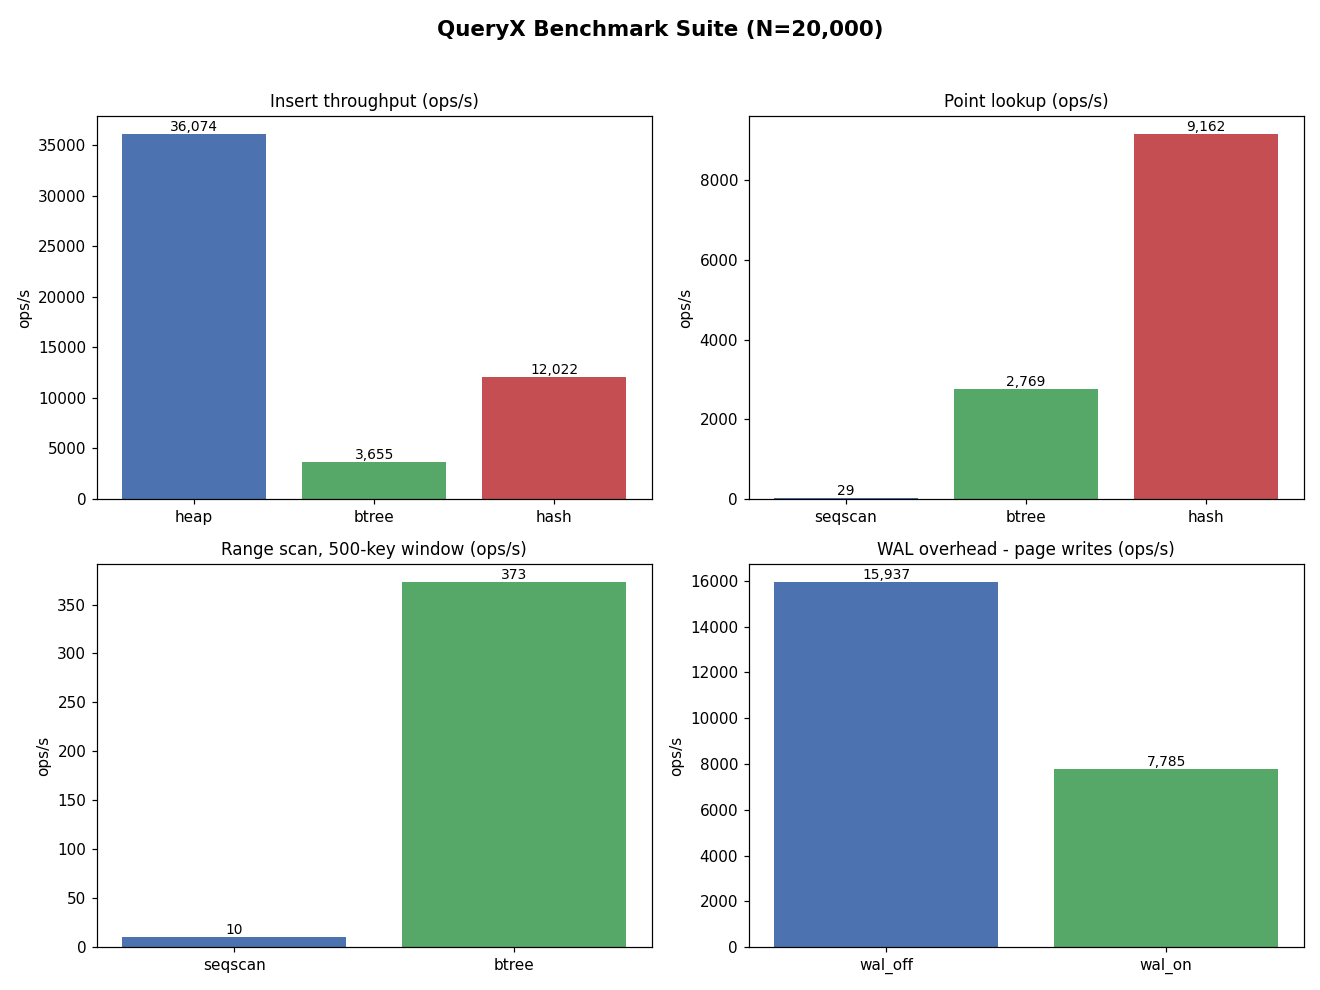
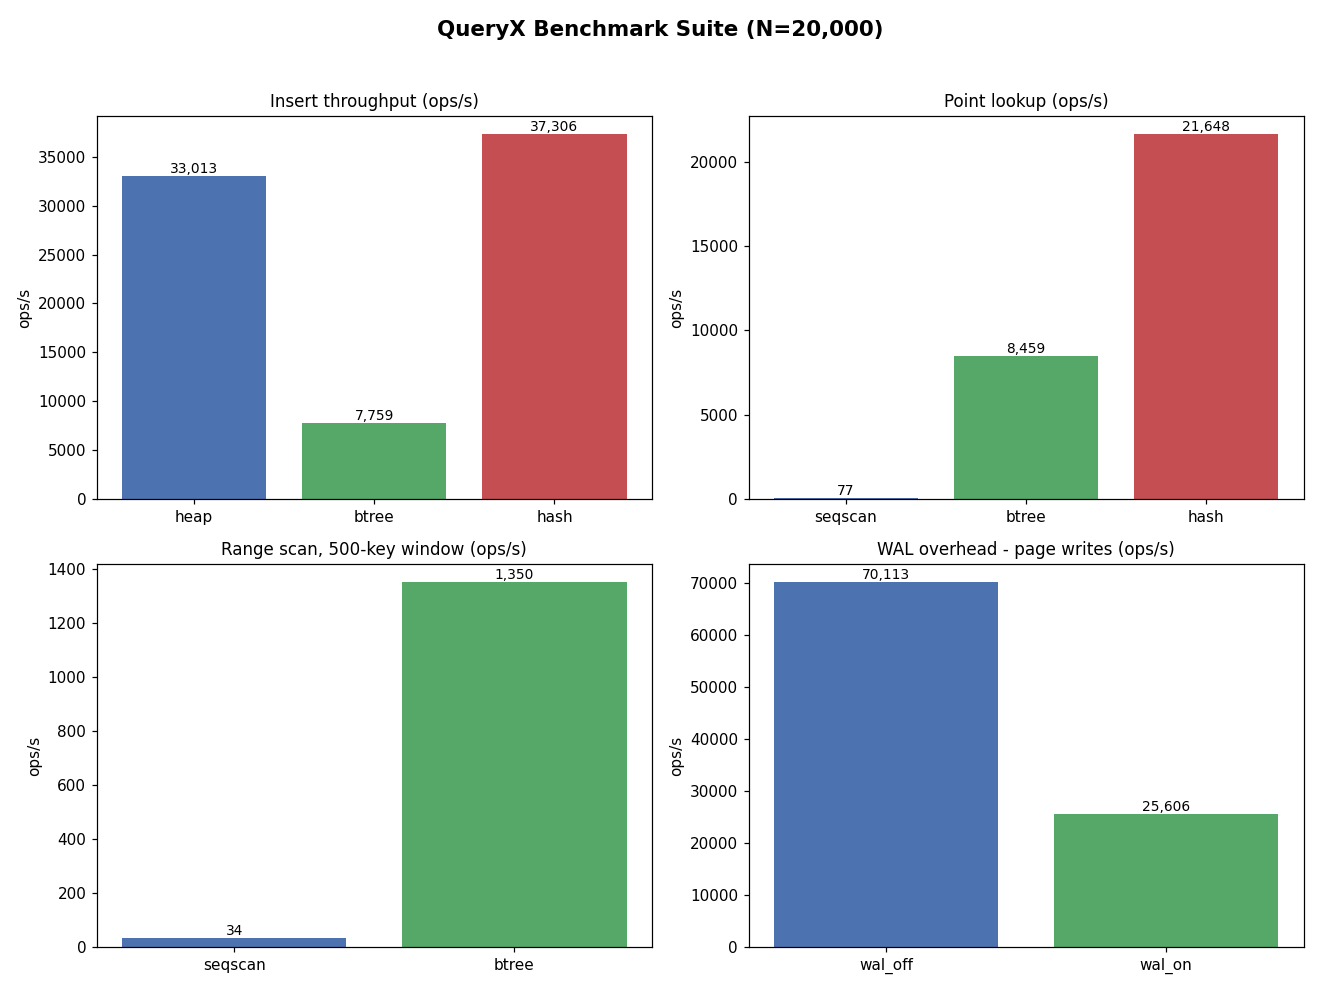
Refresh benchmark report + chart from an N=20,000 run
Regenerated benchmarks/REPORT.md and benchmarks/output/benchmarks.png from
a fresh N=20,000 run (the workload the resume/README reference). Numbers
shift run-to-run (in-process microbenchmark); this is a representative run
(hash point lookup ~280x a sequential scan).

diff --git a/benchmarks/REPORT.md b/benchmarks/REPORT.md
@@ -9,37 +9,37 @@ behavior, not production latencies. Regenerate with
 
 | variant | ops/s |
 |---|---:|
-| heap | 36,074 |
-| btree | 3,655 |
-| hash | 12,022 |
+| heap | 33,013 |
+| btree | 7,759 |
+| hash | 37,306 |
 
 ## Point lookup (ops/s)
 
 | variant | ops/s |
 |---|---:|
-| seqscan | 29 |
-| btree | 2,769 |
-| hash | 9,162 |
+| seqscan | 77 |
+| btree | 8,459 |
+| hash | 21,648 |
 
 ## Range scan, 500-key window (ops/s)
 
 | variant | ops/s |
 |---|---:|
-| seqscan | 10 |
-| btree | 373 |
+| seqscan | 34 |
+| btree | 1,350 |
 
 ## WAL overhead - page writes (ops/s)
 
 | variant | ops/s |
 |---|---:|
-| wal_off | 15,937 |
-| wal_on | 7,785 |
+| wal_off | 70,113 |
+| wal_on | 25,606 |
 
-**WAL overhead:** page writes are ~2.0x slower with logging on (15,937 -> 7,785 ops/s) — the price of crash durability.
+**WAL overhead:** page writes are ~2.7x slower with logging on (70,113 -> 25,606 ops/s) — the price of crash durability.
 
 ## Takeaways
 
-- A hash point lookup is ~**315x** faster than a sequential scan at this size.
+- A hash point lookup is ~**280x** faster than a sequential scan at this size.
 - The B+ tree trails hash on point lookups but is the only index that range-scans.
 - Indexes cost insert throughput to maintain; the WAL costs more, for durability.
 